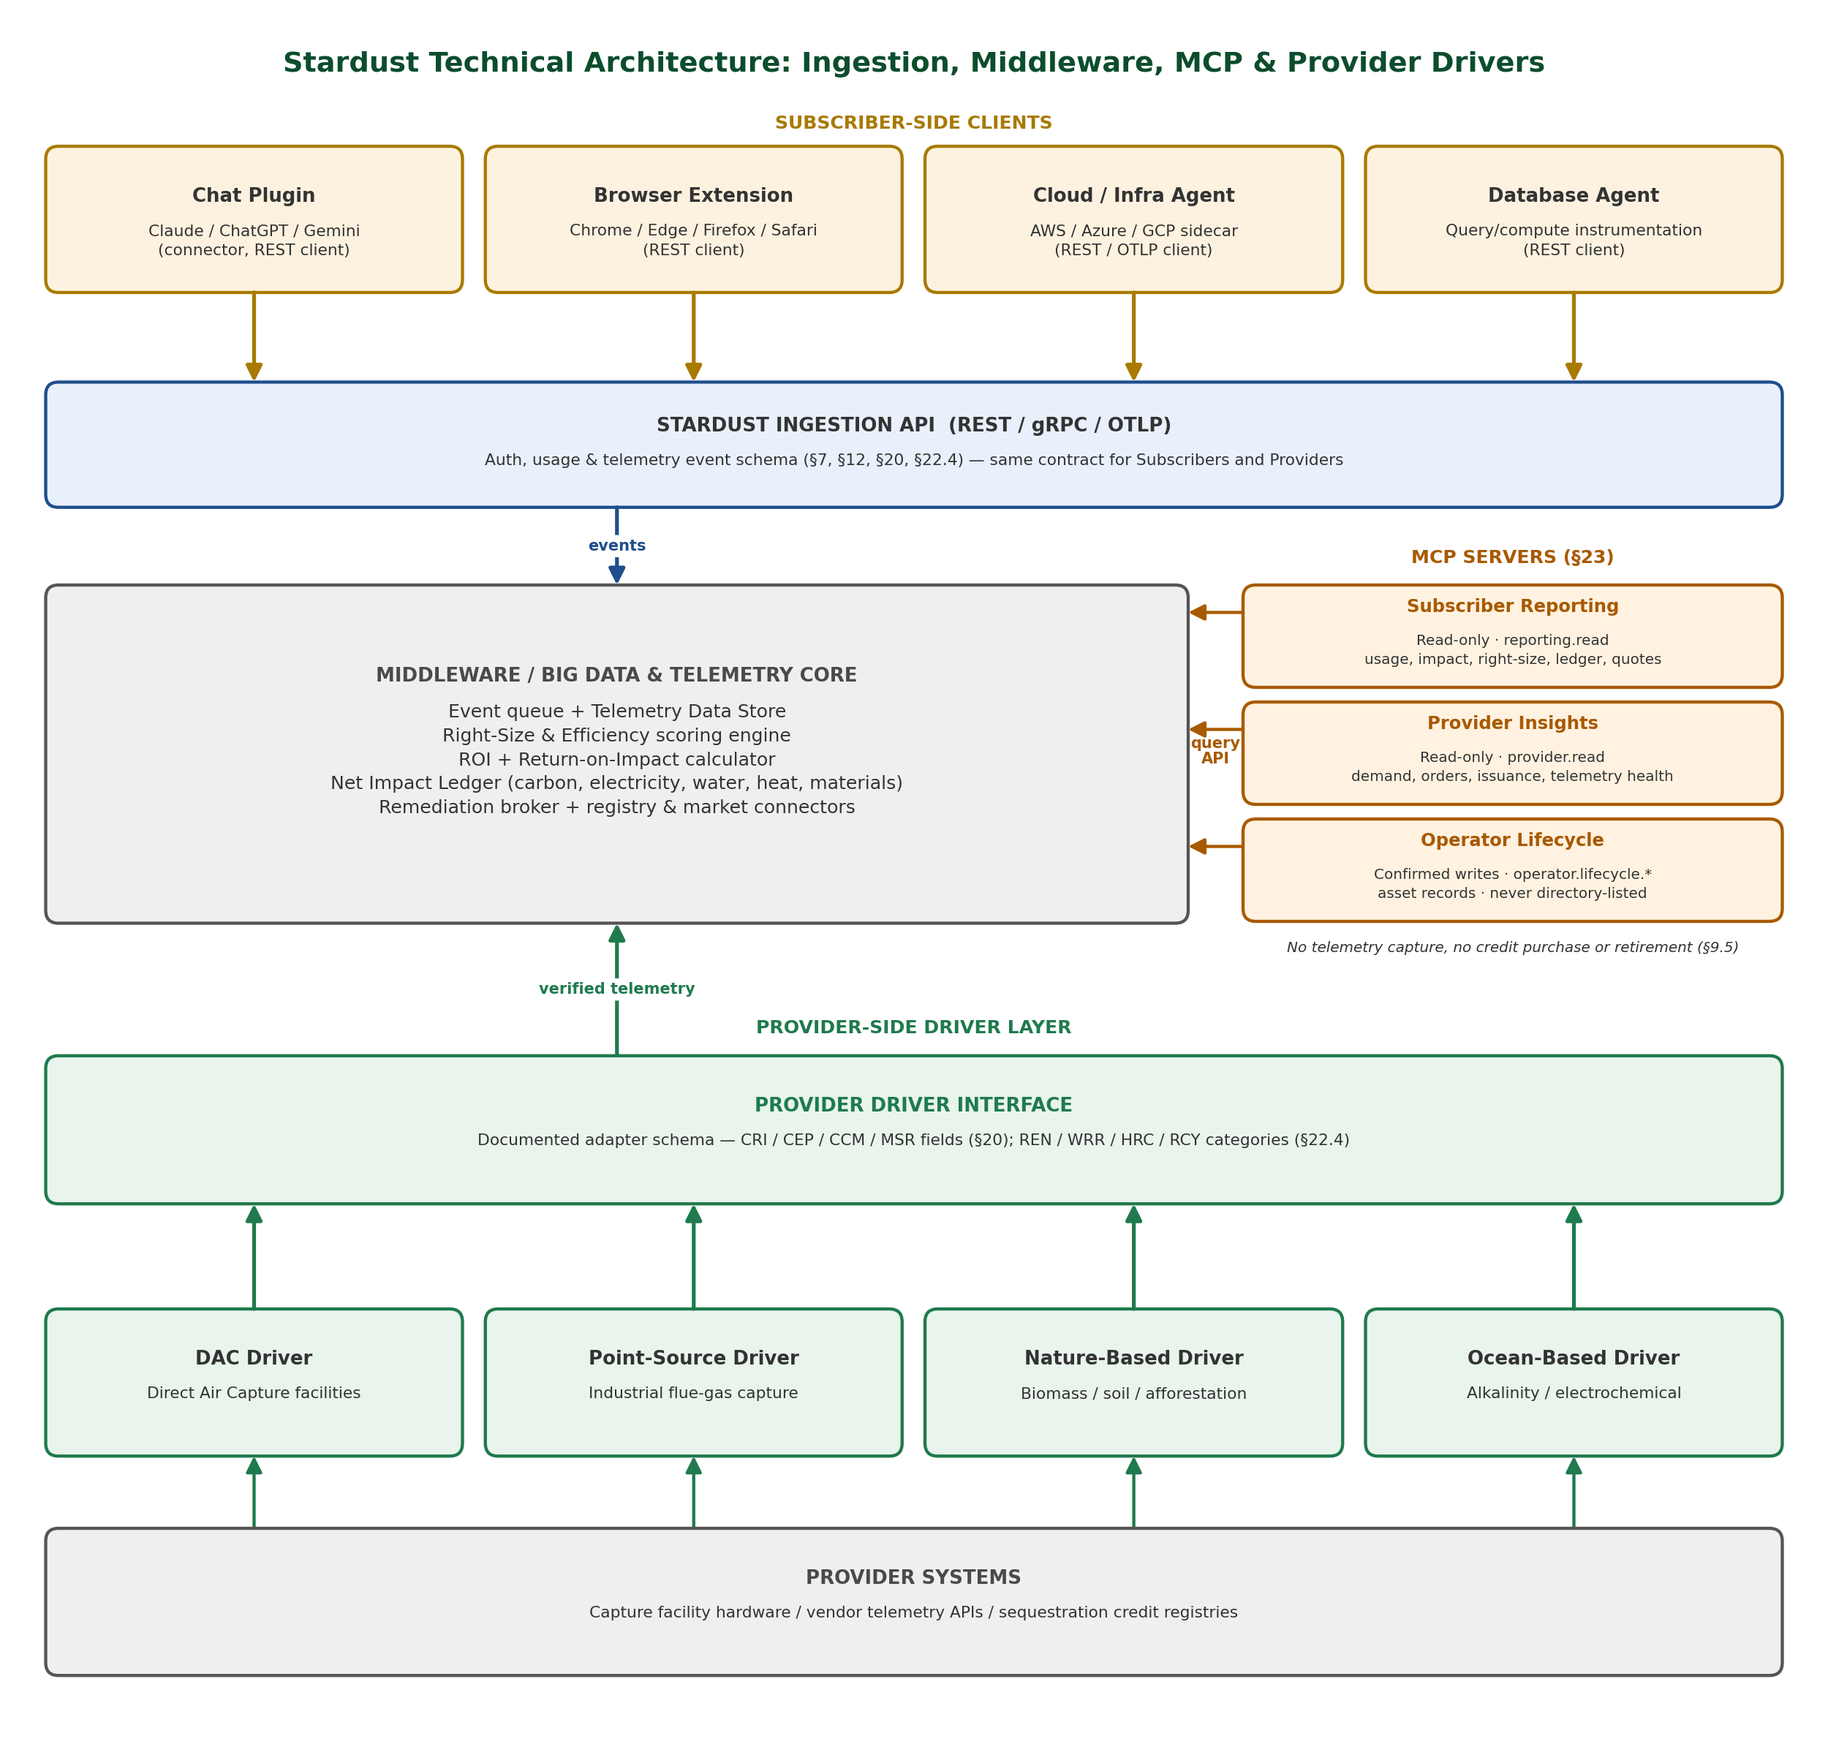
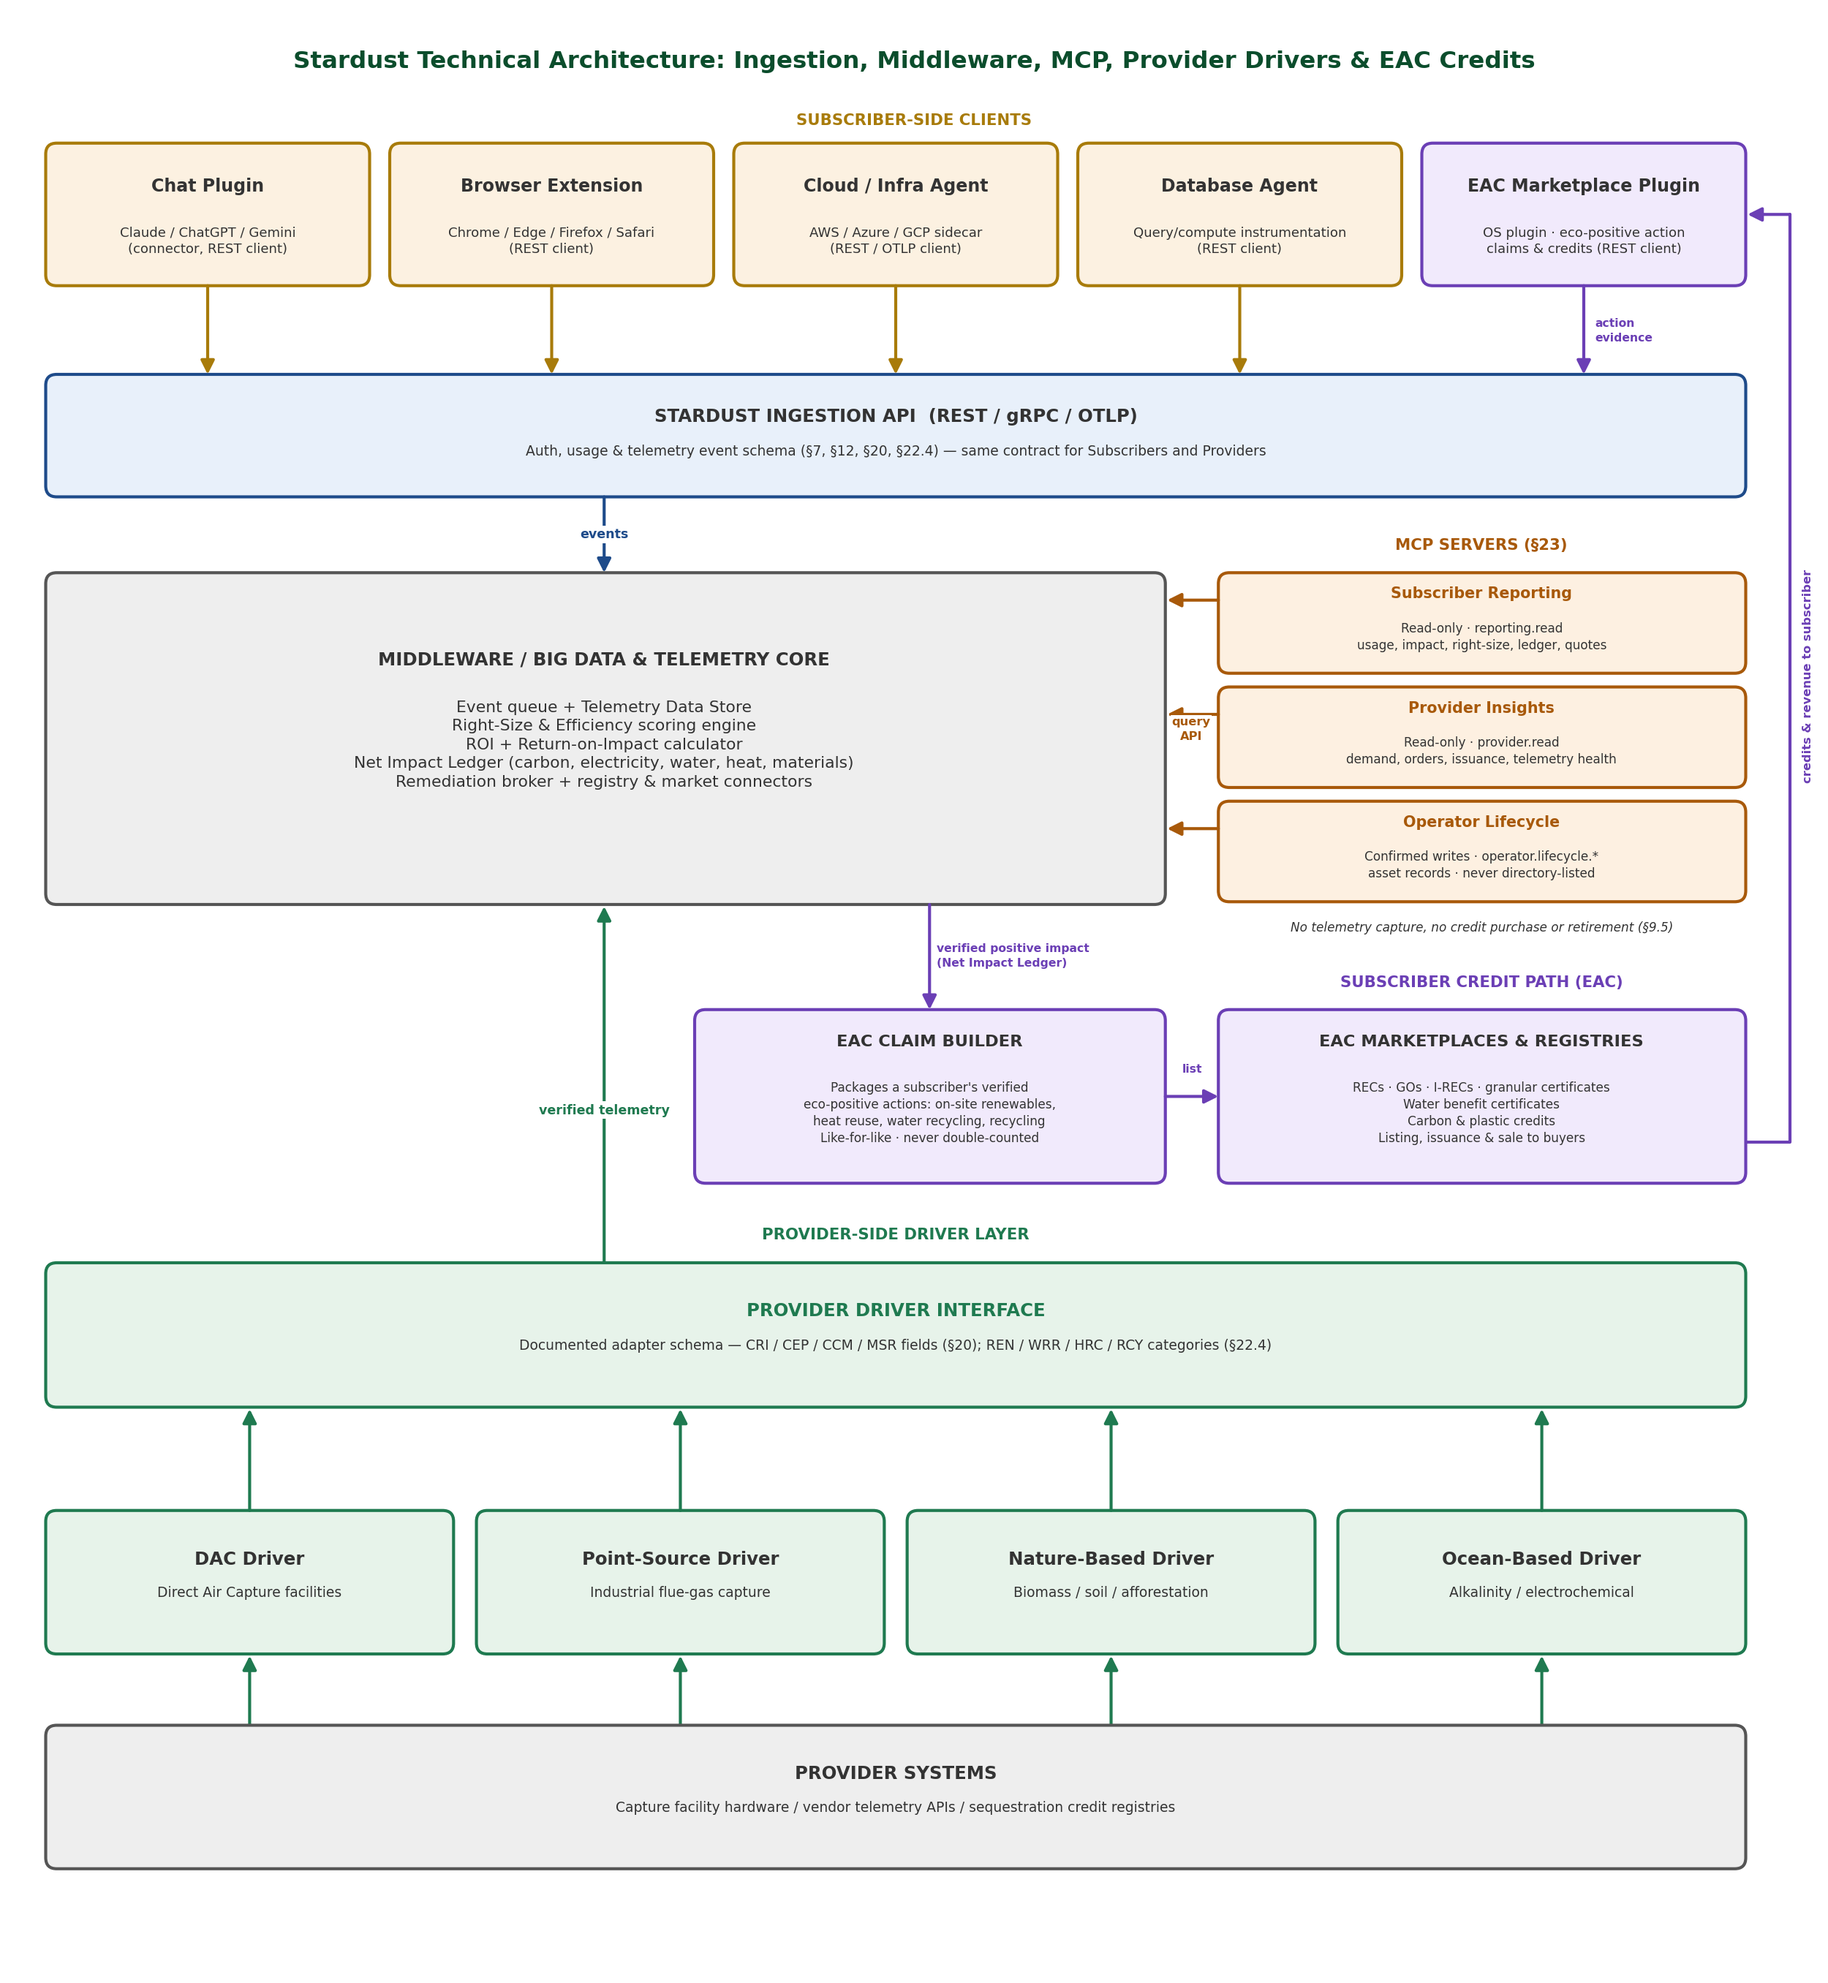
Architecture diagram: add the subscriber EAC credit path; commit the diagram script

Changed region(s): [[0.0, 0.0312, 0.9984, 0.875], [0.0312, 0.875, 0.9672, 0.9688], [0.936, 0.6562, 0.9672, 0.6875]]

diff --git a/docs/tools/stardust_architecture_diagram.py b/docs/tools/stardust_architecture_diagram.py
@@ -1,0 +1,198 @@
+"""Stardust technical architecture, with the subscriber EAC marketplace plugin.
+
+Draws stardust-technical-architecture.png (light) and -dark.png. Spec v1.4 layout, plus:
+  * a fifth subscriber-side client: the EAC Marketplace Plugin (OS plugin)
+  * a Subscriber Credit Path band: Net Impact Ledger -> EAC claim builder ->
+    EAC marketplaces & registries, with credits and revenue returning to the subscriber.
+
+Layout is in "design units": 2000 wide, rendered at 1.25 px per unit (2500 px wide).
+"""
+import sys
+import matplotlib
+matplotlib.use("Agg")
+import matplotlib.pyplot as plt
+from matplotlib.patches import FancyBboxPatch, FancyArrowPatch
+
+W, H = 2000, 2170
+SCALE = 1.25
+DPI = 100
+PT = 72 / DPI * SCALE  # points per design unit
+
+# Usage: python stardust_architecture_diagram.py [dark|light] [output.png]
+THEME = sys.argv[1] if len(sys.argv) > 1 and sys.argv[1] in ("dark", "light") else "dark"
+
+if THEME == "dark":
+    BG, WHITE, SUB, TITLE = "#0d1017", "#f3f6f4", "#d9e1dc", "#f3f6f4"
+    C = {
+        "sub":   dict(fill="#3d3416", edge="#e8b52b", title=WHITE, label="#e8b52b"),
+        "eac":   dict(fill="#2c2142", edge="#b48cff", title=WHITE, label="#c4a3ff"),
+        "ing":   dict(fill="#13223b", edge="#69a8f2", title=WHITE),
+        "core":  dict(fill="#1a3a2b", edge="#8fdcb2", title=WHITE),
+        "mcp":   dict(fill="#3e2b18", edge="#eca452", title="#f2ad62", label="#f2ad62"),
+        "pif":   dict(fill="#13422d", edge="#84dca8", title="#8fe2b4", label="#8fe2b4"),
+        "drv":   dict(fill="#13422d", edge="#84dca8", title=WHITE),
+        "psys":  dict(fill="#17382b", edge="#9fe0bf", title=WHITE),
+    }
+else:
+    BG, WHITE, SUB, TITLE = "#ffffff", "#333333", "#333333", "#0b4d2c"
+    C = {
+        "sub":   dict(fill="#fcf1e1", edge="#a87b0a", title=WHITE, label="#a87b0a"),
+        "eac":   dict(fill="#f1eafc", edge="#6b3fb5", title=WHITE, label="#6b3fb5"),
+        "ing":   dict(fill="#e8f0fa", edge="#1e4b8a", title=WHITE),
+        "core":  dict(fill="#eeeeee", edge="#555555", title=WHITE),
+        "mcp":   dict(fill="#fdf0e1", edge="#a8590a", title="#a8590a", label="#a8590a"),
+        "pif":   dict(fill="#e7f3ea", edge="#1f7a50", title="#1f7a50", label="#1f7a50"),
+        "drv":   dict(fill="#e7f3ea", edge="#1f7a50", title=WHITE),
+        "psys":  dict(fill="#eeeeee", edge="#555555", title=WHITE),
+    }
+
+fig = plt.figure(figsize=(W * SCALE / DPI, H * SCALE / DPI), dpi=DPI)
+ax = fig.add_axes([0, 0, 1, 1])
+ax.set_xlim(0, W)
+ax.set_ylim(H, 0)
+ax.axis("off")
+fig.patch.set_facecolor(BG)
+ax.set_facecolor(BG)
+
+
+def fs(units):
+    return units * PT
+
+
+def box(x0, y0, x1, y1, style, lw=3.0):
+    s = C[style]
+    ax.add_patch(FancyBboxPatch((x0, y0), x1 - x0, y1 - y0,
+                                boxstyle="round,pad=0,rounding_size=12",
+                                linewidth=lw, edgecolor=s["edge"], facecolor=s["fill"]))
+
+
+def text(x, y, s, size, color=WHITE, weight="normal", style="normal", ha="center", va="center", **kw):
+    ax.text(x, y, s, fontsize=fs(size), color=color, fontweight=weight, fontstyle=style,
+            ha=ha, va=va, family="DejaVu Sans", linespacing=1.35, **kw)
+
+
+def arrow(x0, y0, x1, y1, color, lw=3.0):
+    ax.add_patch(FancyArrowPatch((x0, y0), (x1, y1), arrowstyle="-|>", mutation_scale=28,
+                                 color=color, linewidth=lw, shrinkA=0, shrinkB=0))
+
+
+def line(xs, ys, color, lw=3.0):
+    ax.plot(xs, ys, color=color, linewidth=lw, solid_capstyle="round")
+
+
+def titled(x0, y0, x1, y1, style, title, sub, tsize=19, ssize=15, tcolor=None, gap=36):
+    box(x0, y0, x1, y1, style)
+    cx, cy = (x0 + x1) / 2, (y0 + y1) / 2
+    text(cx, cy - gap / 2 - 6, title, tsize, color=tcolor or C[style]["title"], weight="bold")
+    text(cx, cy + gap / 2 + 4, sub, ssize, color=SUB)
+
+
+# ---- title -------------------------------------------------------------------
+text(W / 2, 68, "Stardust Technical Architecture: Ingestion, Middleware, MCP, Provider Drivers & EAC Credits",
+     26, color=TITLE, weight="bold")
+
+# ---- subscriber-side clients (5) ---------------------------------------------
+text(W / 2, 132, "SUBSCRIBER-SIDE CLIENTS", 17, color=C["sub"]["label"], weight="bold")
+X0, X1, GAP = 50, 1910, 22
+bw = (X1 - X0 - 4 * GAP) / 5
+clients = [
+    ("sub", "Chat Plugin", "Claude / ChatGPT / Gemini\n(connector, REST client)"),
+    ("sub", "Browser Extension", "Chrome / Edge / Firefox / Safari\n(REST client)"),
+    ("sub", "Cloud / Infra Agent", "AWS / Azure / GCP sidecar\n(REST / OTLP client)"),
+    ("sub", "Database Agent", "Query/compute instrumentation\n(REST client)"),
+    ("eac", "EAC Marketplace Plugin", "OS plugin · eco-positive action\nclaims & credits (REST client)"),
+]
+centers = []
+for i, (style, t, s) in enumerate(clients):
+    x0 = X0 + i * (bw + GAP)
+    titled(x0, 157, x0 + bw, 313, style, t, s, tsize=19, ssize=14.5, gap=50)
+    centers.append(x0 + bw / 2)
+for i, cx in enumerate(centers):
+    col = C["eac"]["edge"] if i == 4 else C["sub"]["edge"]
+    arrow(cx, 313, cx, 410, col)
+text(centers[4] + 12, 362, "action\nevidence", 12.5, color=C["eac"]["label"], weight="bold", ha="left")
+
+# ---- ingestion API -------------------------------------------------------------
+box(50, 410, 1910, 544, "ing")
+text(980, 456, "STARDUST INGESTION API  (REST / gRPC / OTLP)", 19.5, weight="bold")
+text(980, 494, "Auth, usage & telemetry event schema (§7, §12, §20, §22.4) — same contract for Subscribers and Providers",
+     15, color=SUB)
+
+# ---- core + MCP ---------------------------------------------------------------
+arrow(661, 544, 661, 627, C["ing"]["edge"])
+text(661, 585, "events", 14, color=C["ing"]["edge"], weight="bold",
+     bbox=dict(facecolor=BG, edgecolor="none", pad=2))
+box(50, 627, 1275, 990, "core")
+text(661, 722, "MIDDLEWARE / BIG DATA & TELEMETRY CORE", 19.5, weight="bold")
+text(661, 815, "Event queue + Telemetry Data Store\nRight-Size & Efficiency scoring engine\n"
+               "ROI + Return-on-Impact calculator\nNet Impact Ledger (carbon, electricity, water, heat, materials)\n"
+               "Remediation broker + registry & market connectors", 17.5, color=SUB)
+
+text(1621, 597, "MCP SERVERS (§23)", 17, color=C["mcp"]["label"], weight="bold")
+mcp = [
+    (627, "Subscriber Reporting", "Read-only · reporting.read\nusage, impact, right-size, ledger, quotes"),
+    (752, "Provider Insights", "Read-only · provider.read\ndemand, orders, issuance, telemetry health"),
+    (877, "Operator Lifecycle", "Confirmed writes · operator.lifecycle.*\nasset records · never directory-listed"),
+]
+for y0, t, s in mcp:
+    box(1333, y0, 1910, y0 + 110, "mcp")
+    text(1621, y0 + 23, t, 16.5, color=C["mcp"]["title"], weight="bold")
+    text(1621, y0 + 70, s, 13.5, color=SUB)
+    arrow(1333, y0 + 30, 1277, y0 + 30, C["mcp"]["edge"])
+text(1303, 798, "query\nAPI", 13, color=C["mcp"]["label"], weight="bold",
+     bbox=dict(facecolor=BG, edgecolor="none", pad=1))
+text(1621, 1015, "No telemetry capture, no credit purchase or retirement (§9.5)", 13.5, color=SUB, style="italic")
+
+# ---- NEW: subscriber credit path (EAC) ----------------------------------------
+BAND = 250
+text(1621, 1075, "SUBSCRIBER CREDIT PATH (EAC)", 17,
+     color=C["eac"]["label"], weight="bold")
+box(760, 1105, 1275, 1295, "eac")
+text(1017, 1140, "EAC CLAIM BUILDER", 18, weight="bold")
+text(1017, 1218, "Packages a subscriber's verified\neco-positive actions: on-site renewables,\n"
+                 "heat reuse, water recycling, recycling\nLike-for-like · never double-counted", 13.5, color=SUB)
+box(1333, 1105, 1910, 1295, "eac")
+text(1621, 1140, "EAC MARKETPLACES & REGISTRIES", 18, weight="bold")
+text(1621, 1218, "RECs · GOs · I-RECs · granular certificates\nWater benefit certificates\n"
+                 "Carbon & plastic credits\nListing, issuance & sale to buyers", 13.5, color=SUB)
+arrow(1017, 990, 1017, 1105, C["eac"]["edge"])
+text(1025, 1046, "verified positive impact\n(Net Impact Ledger)", 12.5, color=C["eac"]["label"], weight="bold", ha="left")
+arrow(1275, 1200, 1333, 1200, C["eac"]["edge"])
+text(1304, 1170, "list", 12.5, color=C["eac"]["label"], weight="bold")
+# credits & revenue back to the subscriber's EAC plugin, routed up the right margin
+line([1910, 1958, 1958], [1250, 1250, 235], C["eac"]["edge"])
+arrow(1958, 235, 1912, 235, C["eac"]["edge"])
+text(1978, 740, "credits & revenue to subscriber", 13, color=C["eac"]["label"], weight="bold", rotation=90)
+
+# ---- provider-side driver layer (shifted down by BAND) ------------------------
+def sy(y):
+    return y + BAND
+
+arrow(661, sy(1132), 661, 992, C["pif"]["edge"])
+text(661, 1215, "verified telemetry", 14, color=C["pif"]["edge"], weight="bold",
+     bbox=dict(facecolor=BG, edgecolor="none", pad=2))
+text(980, sy(1101), "PROVIDER-SIDE DRIVER LAYER", 17, color=C["pif"]["label"], weight="bold")
+box(50, sy(1132), 1910, sy(1290), "pif")
+text(980, sy(1184), "PROVIDER DRIVER INTERFACE", 19.5, color=C["pif"]["title"], weight="bold")
+text(980, sy(1222), "Documented adapter schema — CRI / CEP / CCM / MSR fields (§20); REN / WRR / HRC / RCY categories (§22.4)",
+     15, color=SUB)
+drivers = [("DAC Driver", "Direct Air Capture facilities"), ("Point-Source Driver", "Industrial flue-gas capture"),
+           ("Nature-Based Driver", "Biomass / soil / afforestation"), ("Ocean-Based Driver", "Alkalinity / electrochemical")]
+dgap = 25
+dw = (1910 - 50 - 3 * dgap) / 4
+for i, (t, s) in enumerate(drivers):
+    x0 = 50 + i * (dw + dgap)
+    cx = x0 + dw / 2
+    box(x0, sy(1403), x0 + dw, sy(1560), "drv")
+    text(cx, sy(1456), t, 19.5, weight="bold")
+    text(cx, sy(1493), s, 15, color=SUB)
+    arrow(cx, sy(1403), cx, sy(1292), C["drv"]["edge"])
+    arrow(cx, sy(1638), cx, sy(1562), C["drv"]["edge"])
+box(50, sy(1638), 1910, sy(1795), "psys")
+text(980, sy(1691), "PROVIDER SYSTEMS", 19.5, weight="bold")
+text(980, sy(1728), "Capture facility hardware / vendor telemetry APIs / sequestration credit registries", 15, color=SUB)
+
+out = sys.argv[2] if len(sys.argv) > 2 else (
+    "stardust-technical-architecture-dark.png" if THEME == "dark" else "stardust-technical-architecture.png")
+fig.savefig(out, dpi=DPI, facecolor=BG)
+print(out)

diff --git a/README.md b/README.md
@@ -8,8 +8,10 @@ A project of [AI for Ecology](https://aifore.org). See the [spec (v1.4) and summ
 
 <picture>
   <source media="(prefers-color-scheme: dark)" srcset="stardust-technical-architecture-dark.png">
-  <img src="stardust-technical-architecture.png" alt="Stardust technical architecture: subscriber-side clients (chat plugin, browser extension, cloud and infra agent, database agent) send events through the ingestion API (REST and gRPC) to the middleware and telemetry core, which holds the Net Impact Ledger; three MCP servers (subscriber reporting, provider insights, operator lifecycle) query the core; provider drivers (direct air capture, point-source, nature-based, ocean-based) send verified telemetry through the provider driver interface.">
+  <img src="stardust-technical-architecture.png" alt="Stardust technical architecture: subscriber-side clients (chat plugin, browser extension, cloud and infra agent, database agent, and an EAC marketplace plugin) send events through the ingestion API (REST and gRPC) to the middleware and telemetry core, which holds the Net Impact Ledger; three MCP servers (subscriber reporting, provider insights, operator lifecycle) query the core; provider drivers (direct air capture, point-source, nature-based, ocean-based) send verified telemetry through the provider driver interface; a subscriber credit path takes verified positive impact from the Net Impact Ledger through an EAC claim builder to environmental attribute certificate (EAC) marketplaces and registries, and returns credits and revenue to the subscriber.">
 </picture>
+
+The purple **subscriber credit path** is a design concept, not yet in the spec: an OS plugin that lets a subscriber earn environmental attribute certificates (EACs) for its own verified eco-positive actions, such as on-site renewables, heat reuse and water recycling. The diagrams are drawn by [`docs/tools/stardust_architecture_diagram.py`](docs/tools/stardust_architecture_diagram.py).
 
 ```
  subscriber-client/            middleware/                     providers-service/

diff --git a/docs/README.md b/docs/README.md
@@ -39,6 +39,7 @@ Section references in the code (like `§8.4`) point to the spec. Every version s
 - [`architecture/impact-credits.md`](architecture/impact-credits.md): the v1.2 extension from carbon to five impact dimensions (carbon, electricity, water, heat, materials) and lifecycle emissions. It covers the target architecture, how it maps onto today's code, and the incremental, non-destructive build plan. Its ground rules apply to all the plans below.
 - [`architecture/time-embodied-lifecycle.md`](architecture/time-embodied-lifecycle.md): the v1.3 telemetry for time-of-use and load shifting, component-level embodied carbon, and the hardware lifecycle record.
 - [`architecture/mcp.md`](architecture/mcp.md): the v1.4 MCP interface. It maps each tool to today's Core endpoints and plans the three servers.
+- [`tools/stardust_architecture_diagram.py`](tools/stardust_architecture_diagram.py): draws the README's architecture diagrams, including the proposed subscriber EAC credit path. It needs matplotlib. Run `python docs/tools/stardust_architecture_diagram.py light` and `… dark` from the repo root to regenerate `stardust-technical-architecture.png` and `stardust-technical-architecture-dark.png`.
 
 ## Operations
 
